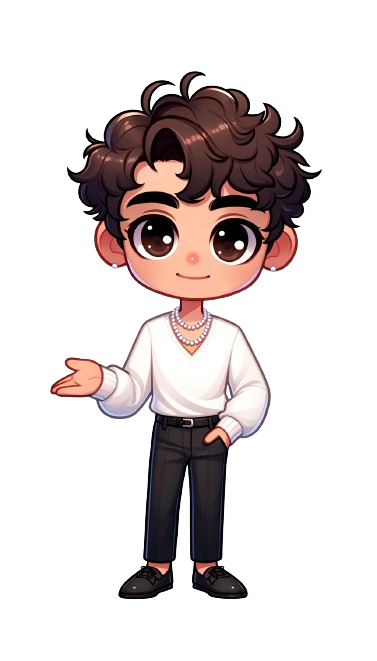
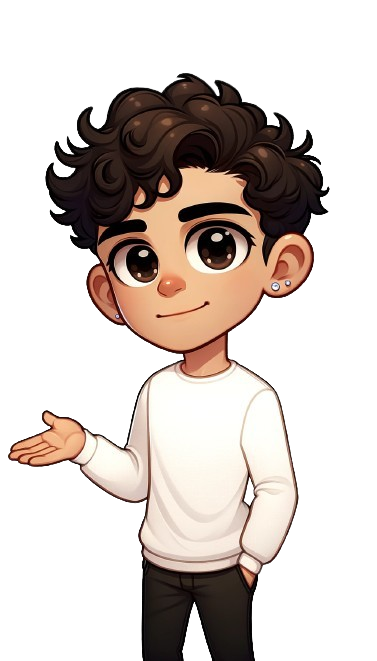
New image and put the chatbot in there

diff --git a/src/pages/index.js b/src/pages/index.js
@@ -6,6 +6,7 @@ import CompanyCard from '@/components/CompanyCard';
 import ProjectCard from '@/components/ProjectCard';
 import workExperiences from '@/data/workExperience';
 import projects from '@/data/projects';
+import Chatbot from '@/components/ChatBot';
 
 export default function Home() {
   const myStoryRef = useRef(null);
@@ -134,6 +135,7 @@ export default function Home() {
             </div>
           </div>
         </section>
+        <Chatbot />
       </main>
     </>
   );

diff --git a/src/components/ChatBot.js b/src/components/ChatBot.js
@@ -147,11 +147,7 @@ export default function Chatbot() {
           }
         `}</style>
       </Head>
-      <div
-        className={`chat-btn ${spin ? 'spin' : ''}`}
-        onClick={toggleChat}
-        onAnimationEnd={() => setSpin(false)}
-      >
+      <div className={`chat-btn ${spin ? 'spin' : ''}`} onClick={toggleChat}>
         {isOpen ? <FaTimes size="24" /> : <FaAngleUp size="24" />}
       </div>
       {isOpen && (
